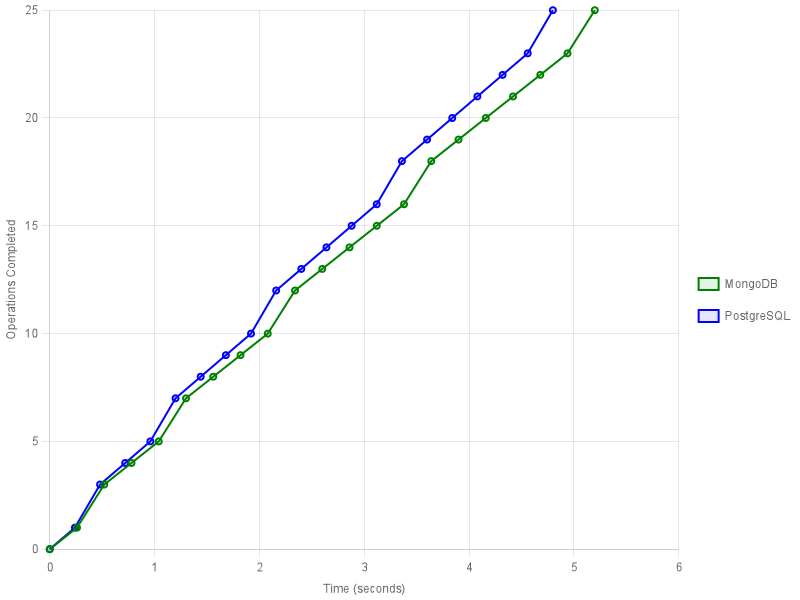
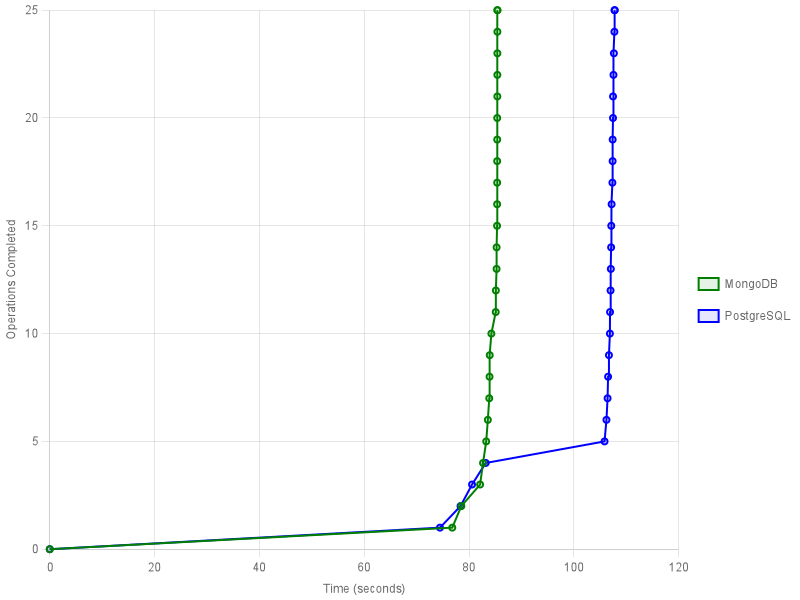
Tweaked full text search

diff --git a/src/benchmark.ts b/src/benchmark.ts
@@ -369,14 +369,13 @@ class DatabaseBenchmark {
     console.log('Generated performance comparison chart for aggregation operations');
   }
 
-  async fullTextSearch(concurrency: number = 25): Promise<void> {
+  async fullTextSearch(concurrency: number = 25, searchCount: number = 1): Promise<void> {
     // Ensure we're using the correct number of clients
     if (concurrency !== this.concurrency) {
       console.warn(`Warning: Requested concurrency (${concurrency}) differs from initialized client count (${this.concurrency}). Using ${this.concurrency} clients.`);
     }
     
-    console.log('Running full-text search benchmark...');
-    const searchTerm = faker.word.sample();
+    console.log(`Running full-text search benchmark with ${searchCount} search terms...`);
     
     // Create index using the first MongoDB client
     try {
@@ -386,100 +385,155 @@ class DatabaseBenchmark {
       console.error('Error creating MongoDB text index:', error);
     }
 
-    // Data points for visualization
-    const mongoDataPoints: { time: number; operations: number }[] = [];
-    const pgDataPoints: { time: number; operations: number }[] = [];
-    const totalOperations = this.concurrency; // One search per client
+    // Aggregate results across all search terms
+    let totalMongoTime = 0;
+    let totalPgTime = 0;
+    const allSearchTerms: string[] = [];
     
-    // MongoDB test - simple text search
-    console.log(`\nPerforming MongoDB text search for term: "${searchTerm}"`);
-    const mongoStartTime = performance.now();
-    const mongoStartUsage = this.getResourceUsage();
-    // Add starting point
-    mongoDataPoints.push({ time: 0, operations: 0 });
+    // Run multiple searches based on searchCount
+    for (let i = 0; i < searchCount; i++) {
+      const searchTerm = faker.word.sample();
+      allSearchTerms.push(searchTerm);
+      console.log(`\nSearch #${i+1} of ${searchCount} - Term: "${searchTerm}"`);
+      
+      // Data points for visualization
+      const mongoDataPoints: { time: number; operations: number }[] = [];
+      const pgDataPoints: { time: number; operations: number }[] = [];
+      const totalOperations = this.concurrency; // One search per client
+      
+      // MongoDB test - simple text search
+      console.log(`Performing MongoDB text search for term: "${searchTerm}"`);
+      const mongoStartTime = performance.now();
+      const mongoStartUsage = this.getResourceUsage();
+      // Add starting point
+      mongoDataPoints.push({ time: 0, operations: 0 });
 
-    // Track progress for MongoDB text searches
-    let mongoCompleted = 0;
-    const mongoPromises = this.mongoDbs.map(db => {
-      const mongoCollection = db.collection('users');
-      return (async () => {
-        await mongoCollection.find(
-          { $text: { $search: searchTerm } },
-          { projection: { score: { $meta: "textScore" } } }
-        ).sort({ score: { $meta: "textScore" } }).limit(20).toArray();
-        mongoCompleted++;
-        const currentTime = (performance.now() - mongoStartTime) / 1000;
-        mongoDataPoints.push({ time: currentTime, operations: mongoCompleted });
-      })();
-    });
+      // Track progress for MongoDB text searches
+      let mongoCompleted = 0;
+      const mongoPromises = this.mongoDbs.map(db => {
+        const mongoCollection = db.collection('users');
+        return (async () => {
+          await mongoCollection.find(
+            { $text: { $search: searchTerm } },
+            { projection: { score: { $meta: "textScore" } } }
+          ).sort({ score: { $meta: "textScore" } }).limit(20).toArray();
+          mongoCompleted++;
+          const currentTime = (performance.now() - mongoStartTime) / 1000;
+          mongoDataPoints.push({ time: currentTime, operations: mongoCompleted });
+        })();
+      });
 
-    await Promise.all(mongoPromises);
-    const mongoTime = (performance.now() - mongoStartTime) / 1000;
-    // Ensure we have the final point
-    mongoDataPoints.push({ time: mongoTime, operations: totalOperations });
-    
-    const mongoResult = await this.mongoDbs[0].collection('users').find(
-      { $text: { $search: searchTerm } },
-      { projection: { score: { $meta: "textScore" } } }
-    ).sort({ score: { $meta: "textScore" } }).limit(20).toArray();
-    console.log(`MongoDB found ${mongoResult.length} results in ${mongoTime.toFixed(2)} seconds`);
-    this.logResourceUsage('Text Search', 'MongoDB', mongoStartUsage);
-    
-    // PostgreSQL test - full-text search
-    console.log(`\nPerforming PostgreSQL text search for term: "${searchTerm}"`);
-    const pgStartTime = performance.now();
-    const pgStartUsage = this.getResourceUsage();
-    // Add starting point
-    pgDataPoints.push({ time: 0, operations: 0 });
+      await Promise.all(mongoPromises);
+      const mongoTime = (performance.now() - mongoStartTime) / 1000;
+      totalMongoTime += mongoTime;
+      // Ensure we have the final point
+      mongoDataPoints.push({ time: mongoTime, operations: totalOperations });
+      
+      const mongoResult = await this.mongoDbs[0].collection('users').find(
+        { $text: { $search: searchTerm } },
+        { projection: { score: { $meta: "textScore" } } }
+      ).sort({ score: { $meta: "textScore" } }).limit(20).toArray();
+      console.log(`MongoDB found ${mongoResult.length} results in ${mongoTime.toFixed(2)} seconds`);
+      this.logResourceUsage('Text Search', 'MongoDB', mongoStartUsage);
+      
+      // PostgreSQL test - full-text search
+      console.log(`Performing PostgreSQL text search for term: "${searchTerm}"`);
+      const pgStartTime = performance.now();
+      const pgStartUsage = this.getResourceUsage();
+      // Add starting point
+      pgDataPoints.push({ time: 0, operations: 0 });
 
-    // Track progress for PostgreSQL text searches
-    let pgCompleted = 0;
-    const pgPromises = this.pgClients.map(client => 
-      (async () => {
-        await client.query(`SELECT id, data FROM users, jsonb_array_elements(data->'orders') as o, jsonb_array_elements(o->'items') as i WHERE i->>'product' ILIKE $1 LIMIT 20`, [`%${searchTerm}%`]);
-        pgCompleted++;
-        const currentTime = (performance.now() - pgStartTime) / 1000;
-        pgDataPoints.push({ time: currentTime, operations: pgCompleted });
-      })()
-    );
+      // Track progress for PostgreSQL text searches
+      let pgCompleted = 0;
+      const pgPromises = this.pgClients.map(client => 
+        (async () => {
+          await client.query(`SELECT id, data FROM users, jsonb_array_elements(data->'orders') as o, jsonb_array_elements(o->'items') as i WHERE i->>'product' ILIKE $1 LIMIT 20`, [`%${searchTerm}%`]);
+          pgCompleted++;
+          const currentTime = (performance.now() - pgStartTime) / 1000;
+          pgDataPoints.push({ time: currentTime, operations: pgCompleted });
+        })()
+      );
 
-    await Promise.all(pgPromises);
-    const pgTime = (performance.now() - pgStartTime) / 1000;
-    // Ensure we have the final point
-    pgDataPoints.push({ time: pgTime, operations: totalOperations });
+      await Promise.all(pgPromises);
+      const pgTime = (performance.now() - pgStartTime) / 1000;
+      totalPgTime += pgTime;
+      // Ensure we have the final point
+      pgDataPoints.push({ time: pgTime, operations: totalOperations });
+      
+      const pgResult = await this.pgClients[0].query(`SELECT id, data FROM users, jsonb_array_elements(data->'orders') as o, jsonb_array_elements(o->'items') as i WHERE i->>'product' ILIKE $1 LIMIT 20`, [`%${searchTerm}%`]);
+      console.log(`PostgreSQL found ${pgResult.rowCount} results in ${pgTime.toFixed(2)} seconds`);
+      this.logResourceUsage('Text Search', 'PostgreSQL', pgStartUsage);
+      
+      // Generate visualization chart for this search term
+      if (searchCount > 1) {
+        await this.visualizer.generateSearchChart(
+          mongoTime, 
+          pgTime, 
+          this.concurrency, 
+          searchTerm, 
+          mongoDataPoints, 
+          pgDataPoints,
+          `search_${i+1}_of_${searchCount}`
+        );
+      }
+      
+      // More complex search patterns (only for the first search term if multiple)
+      if (i === 0) {
+        console.log('\nRunning complex pattern search...');
+        
+        // MongoDB regex search
+        const mongoRegexStartTime = performance.now();
+        const mongoRegexStartUsage = this.getResourceUsage();
+        await Promise.all(this.mongoDbs.map(db => {
+          const mongoCollection = db.collection('users');
+          return mongoCollection.find({ 'orders.items.product': { $regex: new RegExp(searchTerm, 'i') } }).limit(20).toArray();
+        }));
+        const mongoRegexTime = (performance.now() - mongoRegexStartTime) / 1000;
+        const mongoRegexResult = await this.mongoDbs[0].collection('users').find({ 'orders.items.product': { $regex: new RegExp(searchTerm, 'i') } }).limit(20).toArray();
+        console.log(`MongoDB regex search found ${mongoRegexResult.length} results in ${mongoRegexTime.toFixed(2)} seconds`);
+        this.logResourceUsage('Regex Search', 'MongoDB', mongoRegexStartUsage);
+        
+        // PostgreSQL trigram similarity search
+        const pgSimilarityStartTime = performance.now();
+        const pgSimilarityStartUsage = this.getResourceUsage();
+        await Promise.all(this.pgClients.map(client => 
+          client.query(`SELECT id, data, similarity(i->>'product', $1) as sim_score FROM users, jsonb_array_elements(data->'orders') as o, jsonb_array_elements(o->'items') as i WHERE similarity(i->>'product', $1) > 0.3 ORDER BY sim_score DESC LIMIT 20`, [searchTerm])
+        ));
+        const pgSimilarityTime = (performance.now() - pgSimilarityStartTime) / 1000;
+        const pgSimilarityResult = await this.pgClients[0].query(`SELECT id, data, similarity(i->>'product', $1) as sim_score FROM users, jsonb_array_elements(data->'orders') as o, jsonb_array_elements(o->'items') as i WHERE similarity(i->>'product', $1) > 0.3 ORDER BY sim_score DESC LIMIT 20`, [searchTerm]);
+        console.log(`PostgreSQL similarity search found ${pgSimilarityResult.rowCount} results in ${pgSimilarityTime.toFixed(2)} seconds`);
+        this.logResourceUsage('Similarity Search', 'PostgreSQL', pgSimilarityStartUsage);
+      }
+    }
     
-    const pgResult = await this.pgClients[0].query(`SELECT id, data FROM users, jsonb_array_elements(data->'orders') as o, jsonb_array_elements(o->'items') as i WHERE i->>'product' ILIKE $1 LIMIT 20`, [`%${searchTerm}%`]);
-    console.log(`PostgreSQL found ${pgResult.rowCount} results in ${pgTime.toFixed(2)} seconds`);
-    this.logResourceUsage('Text Search', 'PostgreSQL', pgStartUsage);
+    // Generate summary visualization if multiple search terms were used
+    if (searchCount > 1) {
+      const avgMongoTime = totalMongoTime / searchCount;
+      const avgPgTime = totalPgTime / searchCount;
+      console.log(`\nSummary: Ran ${searchCount} search terms`);
+      console.log(`Average MongoDB search time: ${avgMongoTime.toFixed(2)} seconds`);
+      console.log(`Average PostgreSQL search time: ${avgPgTime.toFixed(2)} seconds`);
+      
+      // Generate a summary chart
+      await this.visualizer.generateSearchSummaryChart(
+        avgMongoTime,
+        avgPgTime,
+        this.concurrency,
+        searchCount,
+        allSearchTerms
+      );
+    } else {
+      // For a single search, use the original chart
+      await this.visualizer.generateSearchChart(
+        totalMongoTime, 
+        totalPgTime, 
+        this.concurrency, 
+        allSearchTerms[0], 
+        [], // We don't have aggregated data points for a single search
+        []
+      );
+    }
     
-    // More complex search patterns
-    console.log('\nRunning complex pattern search...');
-    
-    // MongoDB regex search
-    const mongoRegexStartTime = performance.now();
-    const mongoRegexStartUsage = this.getResourceUsage();
-    await Promise.all(this.mongoDbs.map(db => {
-      const mongoCollection = db.collection('users');
-      return mongoCollection.find({ 'orders.items.product': { $regex: new RegExp(searchTerm, 'i') } }).limit(20).toArray();
-    }));
-    const mongoRegexTime = (performance.now() - mongoRegexStartTime) / 1000;
-    const mongoRegexResult = await this.mongoDbs[0].collection('users').find({ 'orders.items.product': { $regex: new RegExp(searchTerm, 'i') } }).limit(20).toArray();
-    console.log(`MongoDB regex search found ${mongoRegexResult.length} results in ${mongoRegexTime.toFixed(2)} seconds`);
-    this.logResourceUsage('Regex Search', 'MongoDB', mongoRegexStartUsage);
-    
-    // PostgreSQL trigram similarity search
-    const pgSimilarityStartTime = performance.now();
-    const pgSimilarityStartUsage = this.getResourceUsage();
-    await Promise.all(this.pgClients.map(client => 
-      client.query(`SELECT id, data, similarity(i->>'product', $1) as sim_score FROM users, jsonb_array_elements(data->'orders') as o, jsonb_array_elements(o->'items') as i WHERE similarity(i->>'product', $1) > 0.3 ORDER BY sim_score DESC LIMIT 20`, [searchTerm])
-    ));
-    const pgSimilarityTime = (performance.now() - pgSimilarityStartTime) / 1000;
-    const pgSimilarityResult = await this.pgClients[0].query(`SELECT id, data, similarity(i->>'product', $1) as sim_score FROM users, jsonb_array_elements(data->'orders') as o, jsonb_array_elements(o->'items') as i WHERE similarity(i->>'product', $1) > 0.3 ORDER BY sim_score DESC LIMIT 20`, [searchTerm]);
-    console.log(`PostgreSQL similarity search found ${pgSimilarityResult.rowCount} results in ${pgSimilarityTime.toFixed(2)} seconds`);
-    this.logResourceUsage('Similarity Search', 'PostgreSQL', pgSimilarityStartUsage);
-    
-    // Generate visualization chart for text search with real-time data points
-    await this.visualizer.generateSearchChart(mongoTime, pgTime, this.concurrency, searchTerm, mongoDataPoints, pgDataPoints);
     console.log('Generated performance comparison chart for full-text search operations');
   }
   
@@ -545,15 +599,17 @@ program.command('aggregation')
   });
 
 program.command('full-text-search')
-  .description('Run full-text search performance test')
-  .option('--concurrency <number>', 'Number of concurrent clients', '25')
+  .description('Run full-text search benchmark')
+  .option('-c, --concurrency <number>', 'Number of concurrent clients', '25')
+  .option('-n, --count <number>', 'Number of search terms to test', '1')
   .action(async (options) => {
     const concurrency = parseInt(options.concurrency);
+    const searchCount = parseInt(options.count);
     const benchmark = new DatabaseBenchmark(concurrency);
     try {
       await benchmark.connect();
       await benchmark.setupPostgres(); // Ensure indexes are created
-      await benchmark.fullTextSearch(concurrency);
+      await benchmark.fullTextSearch(concurrency, searchCount);
     } finally {
       await benchmark.close();
     }

diff --git a/src/visualization.ts b/src/visualization.ts
@@ -205,23 +205,87 @@ export class BenchmarkVisualizer {
     });
   }
 
+
+  /**
+   * Generate a summary chart for multiple search terms
+   */
+  async generateSearchSummaryChart(avgMongoTime: number, avgPgTime: number, concurrency: number, searchCount: number, searchTerms: string[]): Promise<string> {
+    const title = `Full-Text Search Performance Summary (${searchCount} terms)`;
+    const subtitle = `MongoDB vs PostgreSQL | ${concurrency} concurrent clients`;
+    
+    // Create a bar chart comparing average performance
+    const configuration = {
+      type: 'bar',
+      data: {
+        labels: ['MongoDB', 'PostgreSQL'],
+        datasets: [{
+          label: `Average search time (${searchCount} terms)`,
+          data: [avgMongoTime, avgPgTime],
+          backgroundColor: ['rgba(0, 128, 0, 0.6)', 'rgba(0, 0, 255, 0.6)'],
+          borderColor: ['green', 'blue'],
+          borderWidth: 1
+        }]
+      },
+      options: {
+        responsive: true,
+        title: {
+          display: true,
+          text: [title, subtitle, `Search terms: ${searchTerms.join(', ')}`],
+          fontSize: 16,
+        },
+        scales: {
+          y: {
+            beginAtZero: true,
+            title: {
+              display: true,
+              text: 'Time (seconds)'
+            }
+          }
+        },
+        plugins: {
+          legend: {
+            display: true,
+            position: 'top'
+          },
+          datalabels: {
+            anchor: 'end',
+            align: 'top',
+            formatter: (value: number) => value.toFixed(2) + 's',
+            font: {
+              weight: 'bold'
+            }
+          }
+        }
+      }
+    };
+
+    const outputPath = path.join(process.cwd(), 'outputs', 'search_summary.png');
+    const buffer = await this.chartJSNodeCanvas.renderToBuffer(configuration as any);
+    fs.writeFileSync(outputPath, buffer);
+    console.log(`Chart saved to ${outputPath}`);
+    
+    return outputPath;
+  }
+
   /**
    * Generate a performance comparison chart for full-text search operations
    */
   async generateSearchChart(
-    mongoTime: number, 
-    pgTime: number, 
-    concurrency: number, 
+    mongoTime: number,
+    pgTime: number,
+    concurrency: number,
     searchTerm: string,
-    mongoDataPoints?: DataPoint[],
-    pgDataPoints?: DataPoint[]
+    mongoDataPoints: DataPoint[],
+    pgDataPoints: DataPoint[],
+    filenameSuffix?: string
   ): Promise<string> {
     // For text search, we'll use a fixed number of operations (1 per client)
     const operations = concurrency;
     const mongoData: DataPoint[] = mongoDataPoints || this.generateProgressPoints(mongoTime, operations);
     const pgData: DataPoint[] = pgDataPoints || this.generateProgressPoints(pgTime, operations);
 
-    const outputPath = path.join(process.cwd(), 'outputs', `search_${concurrency}_${searchTerm}.jpg`);
+    const filename = filenameSuffix ? `search_performance_${filenameSuffix}.png` : `search_${concurrency}_${searchTerm}.jpg`;
+    const outputPath = path.join(process.cwd(), 'outputs', filename);
     const title = `Full-text search test, ${concurrency} concurrent clients, term: "${searchTerm}"`;
 
     return this.generateChart({

diff --git a/README.md b/README.md
@@ -57,8 +57,16 @@ bun run src/benchmark.ts aggregation
 ### Full-Text Search Test
 Test full-text search capabilities and performance:
 ```bash
+# Basic usage
 bun run src/benchmark.ts full-text-search
+
+# With custom concurrency and multiple search terms
+bun run src/benchmark.ts full-text-search -c 10 -n 5
 ```
+
+Options:
+- `-c, --concurrency <number>`: Number of concurrent clients (default: 25)
+- `-n, --count <number>`: Number of search terms to test (default: 1)
 
 ## Development
 
